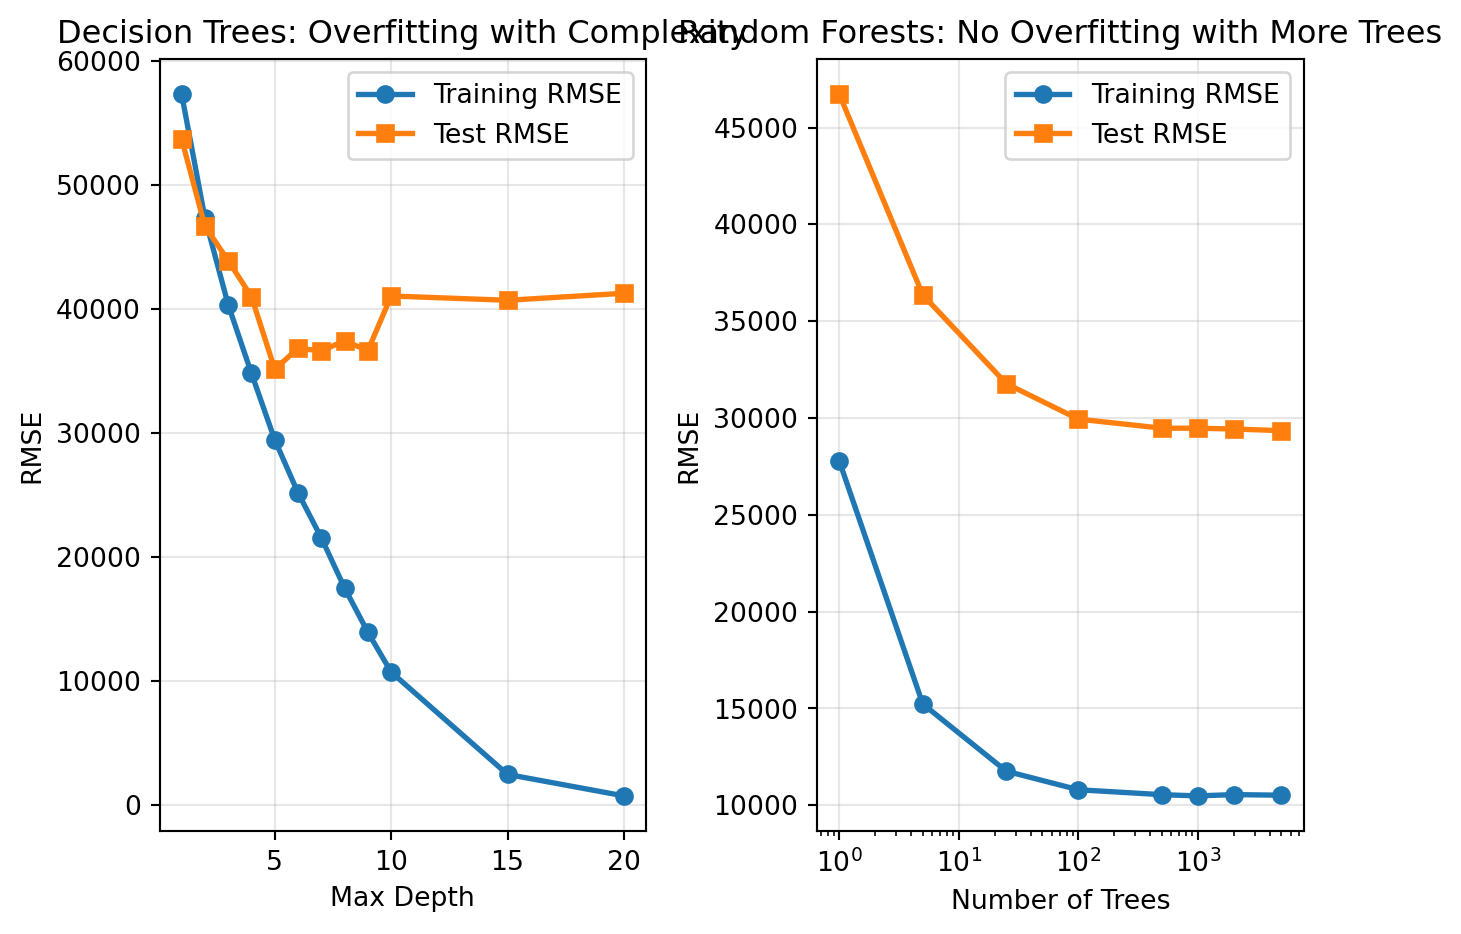
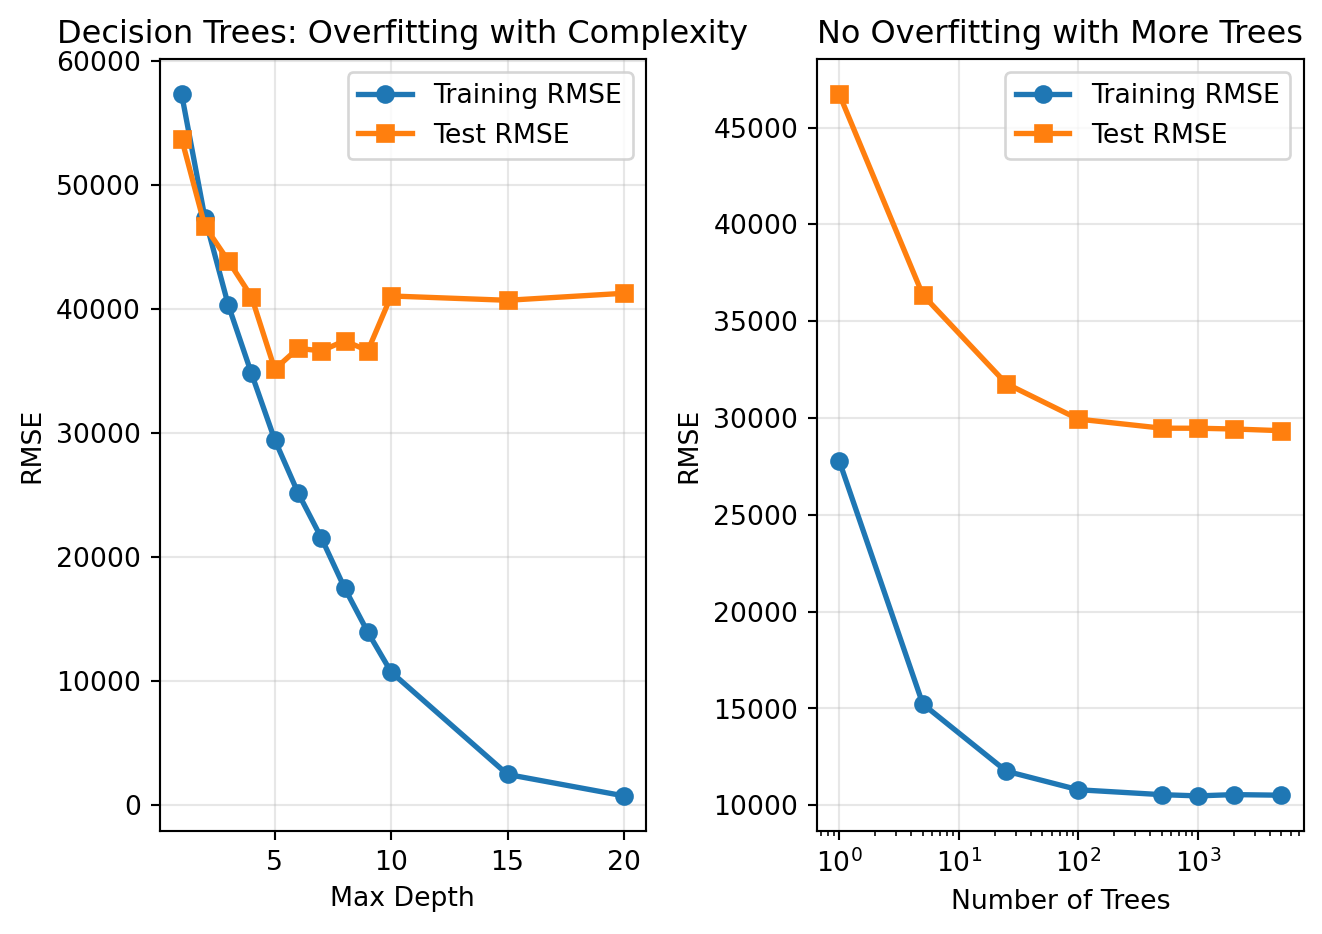
commit all

diff --git a/index.html b/index.html
@@ -128,8 +128,8 @@ ul.task-list li input[type="checkbox"] {
 <section id="python" class="level3">
 <h3 class="anchored" data-anchor-id="python">Python</h3>
 <div id="cell-load-and-model-python" class="cell" data-execution_count="1">
-<div id="load-and-model-python" class="cell-output cell-output-display" data-execution_count="25">
-<style>#sk-container-id-5 {
+<div id="load-and-model-python" class="cell-output cell-output-display" data-execution_count="1">
+<style>#sk-container-id-1 {
   /* Definition of color scheme common for light and dark mode */
   --sklearn-color-text: black;
   --sklearn-color-line: gray;
@@ -159,15 +159,15 @@ ul.task-list li input[type="checkbox"] {
   }
 }
 
-#sk-container-id-5 {
+#sk-container-id-1 {
   color: var(--sklearn-color-text);
 }
 
-#sk-container-id-5 pre {
+#sk-container-id-1 pre {
   padding: 0;
 }
 
-#sk-container-id-5 input.sk-hidden--visually {
+#sk-container-id-1 input.sk-hidden--visually {
   border: 0;
   clip: rect(1px 1px 1px 1px);
   clip: rect(1px, 1px, 1px, 1px);
@@ -179,7 +179,7 @@ ul.task-list li input[type="checkbox"] {
   width: 1px;
 }
 
-#sk-container-id-5 div.sk-dashed-wrapped {
+#sk-container-id-1 div.sk-dashed-wrapped {
   border: 1px dashed var(--sklearn-color-line);
   margin: 0 0.4em 0.5em 0.4em;
   box-sizing: border-box;
@@ -187,7 +187,7 @@ ul.task-list li input[type="checkbox"] {
   background-color: var(--sklearn-color-background);
 }
 
-#sk-container-id-5 div.sk-container {
+#sk-container-id-1 div.sk-container {
   /* jupyter's `normalize.less` sets `[hidden] { display: none; }`
      but bootstrap.min.css set `[hidden] { display: none !important; }`
      so we also need the `!important` here to be able to override the
@@ -197,7 +197,7 @@ ul.task-list li input[type="checkbox"] {
   position: relative;
 }
 
-#sk-container-id-5 div.sk-text-repr-fallback {
+#sk-container-id-1 div.sk-text-repr-fallback {
   display: none;
 }
 
@@ -213,14 +213,14 @@ div.sk-item {
 
 /* Parallel-specific style estimator block */
 
-#sk-container-id-5 div.sk-parallel-item::after {
+#sk-container-id-1 div.sk-parallel-item::after {
   content: "";
   width: 100%;
   border-bottom: 2px solid var(--sklearn-color-text-on-default-background);
   flex-grow: 1;
 }
 
-#sk-container-id-5 div.sk-parallel {
+#sk-container-id-1 div.sk-parallel {
   display: flex;
   align-items: stretch;
   justify-content: center;
@@ -228,28 +228,28 @@ div.sk-item {
   position: relative;
 }
 
-#sk-container-id-5 div.sk-parallel-item {
+#sk-container-id-1 div.sk-parallel-item {
   display: flex;
   flex-direction: column;
 }
 
-#sk-container-id-5 div.sk-parallel-item:first-child::after {
+#sk-container-id-1 div.sk-parallel-item:first-child::after {
   align-self: flex-end;
   width: 50%;
 }
 
-#sk-container-id-5 div.sk-parallel-item:last-child::after {
+#sk-container-id-1 div.sk-parallel-item:last-child::after {
   align-self: flex-start;
   width: 50%;
 }
 
-#sk-container-id-5 div.sk-parallel-item:only-child::after {
+#sk-container-id-1 div.sk-parallel-item:only-child::after {
   width: 0;
 }
 
 /* Serial-specific style estimator block */
 
-#sk-container-id-5 div.sk-serial {
+#sk-container-id-1 div.sk-serial {
   display: flex;
   flex-direction: column;
   align-items: center;
@@ -267,14 +267,14 @@ clickable and can be expanded/collapsed.
 
 /* Pipeline and ColumnTransformer style (default) */
 
-#sk-container-id-5 div.sk-toggleable {
+#sk-container-id-1 div.sk-toggleable {
   /* Default theme specific background. It is overwritten whether we have a
   specific estimator or a Pipeline/ColumnTransformer */
   background-color: var(--sklearn-color-background);
 }
 
 /* Toggleable label */
-#sk-container-id-5 label.sk-toggleable__label {
+#sk-container-id-1 label.sk-toggleable__label {
   cursor: pointer;
   display: block;
   width: 100%;
@@ -284,7 +284,7 @@ clickable and can be expanded/collapsed.
   text-align: center;
 }
 
-#sk-container-id-5 label.sk-toggleable__label-arrow:before {
+#sk-container-id-1 label.sk-toggleable__label-arrow:before {
   /* Arrow on the left of the label */
   content: "▸";
   float: left;
@@ -292,13 +292,13 @@ clickable and can be expanded/collapsed.
   color: var(--sklearn-color-icon);
 }
 
-#sk-container-id-5 label.sk-toggleable__label-arrow:hover:before {
+#sk-container-id-1 label.sk-toggleable__label-arrow:hover:before {
   color: var(--sklearn-color-text);
 }
 
 /* Toggleable content - dropdown */
 
-#sk-container-id-5 div.sk-toggleable__content {
+#sk-container-id-1 div.sk-toggleable__content {
   max-height: 0;
   max-width: 0;
   overflow: hidden;
@@ -307,12 +307,12 @@ clickable and can be expanded/collapsed.
   background-color: var(--sklearn-color-unfitted-level-0);
 }
 
-#sk-container-id-5 div.sk-toggleable__content.fitted {
+#sk-container-id-1 div.sk-toggleable__content.fitted {
   /* fitted */
   background-color: var(--sklearn-color-fitted-level-0);
 }
 
-#sk-container-id-5 div.sk-toggleable__content pre {
+#sk-container-id-1 div.sk-toggleable__content pre {
   margin: 0.2em;
   border-radius: 0.25em;
   color: var(--sklearn-color-text);
@@ -320,79 +320,79 @@ clickable and can be expanded/collapsed.
   background-color: var(--sklearn-color-unfitted-level-0);
 }
 
-#sk-container-id-5 div.sk-toggleable__content.fitted pre {
+#sk-container-id-1 div.sk-toggleable__content.fitted pre {
   /* unfitted */
   background-color: var(--sklearn-color-fitted-level-0);
 }
 
-#sk-container-id-5 input.sk-toggleable__control:checked~div.sk-toggleable__content {
+#sk-container-id-1 input.sk-toggleable__control:checked~div.sk-toggleable__content {
   /* Expand drop-down */
   max-height: 200px;
   max-width: 100%;
   overflow: auto;
 }
 
-#sk-container-id-5 input.sk-toggleable__control:checked~label.sk-toggleable__label-arrow:before {
+#sk-container-id-1 input.sk-toggleable__control:checked~label.sk-toggleable__label-arrow:before {
   content: "▾";
 }
 
 /* Pipeline/ColumnTransformer-specific style */
 
-#sk-container-id-5 div.sk-label input.sk-toggleable__control:checked~label.sk-toggleable__label {
+#sk-container-id-1 div.sk-label input.sk-toggleable__control:checked~label.sk-toggleable__label {
   color: var(--sklearn-color-text);
   background-color: var(--sklearn-color-unfitted-level-2);
 }
 
-#sk-container-id-5 div.sk-label.fitted input.sk-toggleable__control:checked~label.sk-toggleable__label {
+#sk-container-id-1 div.sk-label.fitted input.sk-toggleable__control:checked~label.sk-toggleable__label {
   background-color: var(--sklearn-color-fitted-level-2);
 }
 
 /* Estimator-specific style */
 
 /* Colorize estimator box */
-#sk-container-id-5 div.sk-estimator input.sk-toggleable__control:checked~label.sk-toggleable__label {
+#sk-container-id-1 div.sk-estimator input.sk-toggleable__control:checked~label.sk-toggleable__label {
   /* unfitted */
   background-color: var(--sklearn-color-unfitted-level-2);
 }
 
-#sk-container-id-5 div.sk-estimator.fitted input.sk-toggleable__control:checked~label.sk-toggleable__label {
+#sk-container-id-1 div.sk-estimator.fitted input.sk-toggleable__control:checked~label.sk-toggleable__label {
   /* fitted */
   background-color: var(--sklearn-color-fitted-level-2);
 }
 
-#sk-container-id-5 div.sk-label label.sk-toggleable__label,
-#sk-container-id-5 div.sk-label label {
+#sk-container-id-1 div.sk-label label.sk-toggleable__label,
+#sk-container-id-1 div.sk-label label {
   /* The background is the default theme color */
   color: var(--sklearn-color-text-on-default-background);
 }
 
 /* On hover, darken the color of the background */
-#sk-container-id-5 div.sk-label:hover label.sk-toggleable__label {
+#sk-container-id-1 div.sk-label:hover label.sk-toggleable__label {
   color: var(--sklearn-color-text);
   background-color: var(--sklearn-color-unfitted-level-2);
 }
 
 /* Label box, darken color on hover, fitted */
-#sk-container-id-5 div.sk-label.fitted:hover label.sk-toggleable__label.fitted {
+#sk-container-id-1 div.sk-label.fitted:hover label.sk-toggleable__label.fitted {
   color: var(--sklearn-color-text);
   background-color: var(--sklearn-color-fitted-level-2);
 }
 
 /* Estimator label */
 
-#sk-container-id-5 div.sk-label label {
+#sk-container-id-1 div.sk-label label {
   font-family: monospace;
   font-weight: bold;
   display: inline-block;
   line-height: 1.2em;
 }
 
-#sk-container-id-5 div.sk-label-container {
+#sk-container-id-1 div.sk-label-container {
   text-align: center;
 }
 
 /* Estimator-specific */
-#sk-container-id-5 div.sk-estimator {
+#sk-container-id-1 div.sk-estimator {
   font-family: monospace;
   border: 1px dotted var(--sklearn-color-border-box);
   border-radius: 0.25em;
@@ -402,18 +402,18 @@ clickable and can be expanded/collapsed.
   background-color: var(--sklearn-color-unfitted-level-0);
 }
 
-#sk-container-id-5 div.sk-estimator.fitted {
+#sk-container-id-1 div.sk-estimator.fitted {
   /* fitted */
   background-color: var(--sklearn-color-fitted-level-0);
 }
 
 /* on hover */
-#sk-container-id-5 div.sk-estimator:hover {
+#sk-container-id-1 div.sk-estimator:hover {
   /* unfitted */
   background-color: var(--sklearn-color-unfitted-level-2);
 }
 
-#sk-container-id-5 div.sk-estimator.fitted:hover {
+#sk-container-id-1 div.sk-estimator.fitted:hover {
   /* fitted */
   background-color: var(--sklearn-color-fitted-level-2);
 }
@@ -500,7 +500,7 @@ div.sk-label-container:hover .sk-estimator-doc-link.fitted:hover,
 
 /* "?"-specific style due to the `<a>` HTML tag */
 
-#sk-container-id-5 a.estimator_doc_link {
+#sk-container-id-1 a.estimator_doc_link {
   float: right;
   font-size: 1rem;
   line-height: 1em;
@@ -515,25 +515,25 @@ div.sk-label-container:hover .sk-estimator-doc-link.fitted:hover,
   border: var(--sklearn-color-unfitted-level-1) 1pt solid;
 }
 
-#sk-container-id-5 a.estimator_doc_link.fitted {
+#sk-container-id-1 a.estimator_doc_link.fitted {
   /* fitted */
   border: var(--sklearn-color-fitted-level-1) 1pt solid;
   color: var(--sklearn-color-fitted-level-1);
 }
 
 /* On hover */
-#sk-container-id-5 a.estimator_doc_link:hover {
+#sk-container-id-1 a.estimator_doc_link:hover {
   /* unfitted */
   background-color: var(--sklearn-color-unfitted-level-3);
   color: var(--sklearn-color-background);
   text-decoration: none;
 }
 
-#sk-container-id-5 a.estimator_doc_link.fitted:hover {
+#sk-container-id-1 a.estimator_doc_link.fitted:hover {
   /* fitted */
   background-color: var(--sklearn-color-fitted-level-3);
 }
-</style><div id="sk-container-id-5" class="sk-top-container"><div class="sk-text-repr-fallback"><pre>RandomForestRegressor(max_features=3, n_estimators=5000, random_state=123)</pre><b>In a Jupyter environment, please rerun this cell to show the HTML representation or trust the notebook. <br>On GitHub, the HTML representation is unable to render, please try loading this page with nbviewer.org.</b></div><div class="sk-container" hidden=""><div class="sk-item"><div class="sk-estimator fitted sk-toggleable"><input class="sk-toggleable__control sk-hidden--visually" id="sk-estimator-id-5" type="checkbox" checked=""><label for="sk-estimator-id-5" class="sk-toggleable__label fitted sk-toggleable__label-arrow fitted">&nbsp;&nbsp;RandomForestRegressor<a class="sk-estimator-doc-link fitted" rel="noreferrer" target="_blank" href="https://scikit-learn.org/1.5/modules/generated/sklearn.ensemble.RandomForestRegressor.html">?<span>Documentation for RandomForestRegressor</span></a><span class="sk-estimator-doc-link fitted">i<span>Fitted</span></span></label><div class="sk-toggleable__content fitted"><pre>RandomForestRegressor(max_features=3, n_estimators=5000, random_state=123)</pre></div> </div></div></div></div>
+</style><div id="sk-container-id-1" class="sk-top-container"><div class="sk-text-repr-fallback"><pre>RandomForestRegressor(max_features=3, n_estimators=5000, random_state=123)</pre><b>In a Jupyter environment, please rerun this cell to show the HTML representation or trust the notebook. <br>On GitHub, the HTML representation is unable to render, please try loading this page with nbviewer.org.</b></div><div class="sk-container" hidden=""><div class="sk-item"><div class="sk-estimator fitted sk-toggleable"><input class="sk-toggleable__control sk-hidden--visually" id="sk-estimator-id-1" type="checkbox" checked=""><label for="sk-estimator-id-1" class="sk-toggleable__label fitted sk-toggleable__label-arrow fitted">&nbsp;&nbsp;RandomForestRegressor<a class="sk-estimator-doc-link fitted" rel="noreferrer" target="_blank" href="https://scikit-learn.org/1.5/modules/generated/sklearn.ensemble.RandomForestRegressor.html">?<span>Documentation for RandomForestRegressor</span></a><span class="sk-estimator-doc-link fitted">i<span>Fitted</span></span></label><div class="sk-toggleable__content fitted"><pre>RandomForestRegressor(max_features=3, n_estimators=5000, random_state=123)</pre></div> </div></div></div></div>
 </div>
 </div>
 </section>
@@ -629,7 +629,7 @@ div.sk-label-container:hover .sk-estimator-doc-link.fitted:hover,
 <div class="cell-output cell-output-display">
 <div>
 <figure class="figure">
-<p><img src="index_files/figure-html/overfitting-comparison-output-1.png" id="overfitting-comparison" width="731" height="467" class="figure-img"></p>
+<p><img src="index_files/figure-html/overfitting-comparison-output-1.png" id="overfitting-comparison" width="661" height="467" class="figure-img"></p>
 </figure>
 </div>
 </div>
@@ -809,18 +809,27 @@ Random Forest (1000 trees) 29472.571833                               9.8%</code
 <ol type="1">
 <li><strong>Power of More Trees Analysis:</strong> Provide a clear, well-reasoned analysis of how random forest performance improves with more trees. Your analysis should demonstrate understanding of ensemble learning principles and diminishing returns.</li>
 </ol>
+<p><strong>Analysis:</strong> The graphs show that adding more trees to a random forest dramatically improves performance at first, then levels off. Going from 1 to 5 trees gives huge improvements - this is the magic of ensemble learning where multiple “weak” predictors combine to make a strong one. Each tree sees the data slightly differently, so when you average their predictions, you get much better results.</p>
+<p>After about 100 trees, the improvements get smaller and smaller. This is diminishing returns - you’re getting less bang for your buck. The forest has already learned most of what it can from the data, so adding more trees doesn’t help much but still costs more computing time.</p>
+<p>In practice, this means you don’t need thousands of trees. Most of the benefit comes from the first 50-100 trees, making random forests surprisingly efficient.</p>
 </section>
 <section id="questions-to-answer-for-85-grade-on-challenge" class="level3">
 <h3 class="anchored" data-anchor-id="questions-to-answer-for-85-grade-on-challenge">Questions to Answer for 85% Grade on Challenge</h3>
 <ol start="2" type="1">
 <li><strong>Overfitting Analysis:</strong> Provide a thorough analysis comparing decision trees vs random forests in terms of overfitting. Your analysis should explain why individual trees overfit while random forests don’t, and the mechanisms that prevent overfitting in ensemble methods.</li>
 </ol>
+<p><strong>Analysis:</strong> Decision trees overfit badly - they memorize training data but fail on new data. You can see the gap between training and test performance grow as trees get deeper.</p>
+<p>Random forests fix this completely. Even with thousands of trees, both training and test performance improve together. Three things make this work: each tree sees different data (bootstrap sampling), focuses on different features (random selection), and averaging cancels out mistakes.</p>
+<p>It’s like asking 100 people for directions - even if some are wrong, the average is usually right.</p>
 </section>
 <section id="questions-to-answer-for-95-grade-on-challenge" class="level3">
 <h3 class="anchored" data-anchor-id="questions-to-answer-for-95-grade-on-challenge">Questions to Answer for 95% Grade on Challenge</h3>
 <ol start="3" type="1">
 <li><strong>Linear Regression Comparison:</strong> Your analysis should include a clear comparison table and discussion of when random forests are worth the added complexity vs linear regression. Focus on practical implications for real-world applications.</li>
 </ol>
+<p><strong>Analysis:</strong> The comparison table shows linear regression as the baseline - simple but limited. Random forests consistently beat it, with even 1 tree performing better. The improvement from 1 to 100 trees is huge, similar to switching from linear regression to random forests entirely.</p>
+<p>When are random forests worth it? When you need better accuracy and can handle the complexity. Linear regression is great for simple relationships and when you need to explain your model to stakeholders. Random forests excel when data has complex patterns that linear models miss.</p>
+<p>The trade-off is clear: simplicity vs.&nbsp;performance. Choose linear regression for interpretability, random forests for accuracy.</p>
 </section>
 <section id="questions-to-answer-for-100-grade-on-challenge" class="level3">
 <h3 class="anchored" data-anchor-id="questions-to-answer-for-100-grade-on-challenge">Questions to Answer for 100% Grade on Challenge</h3>
